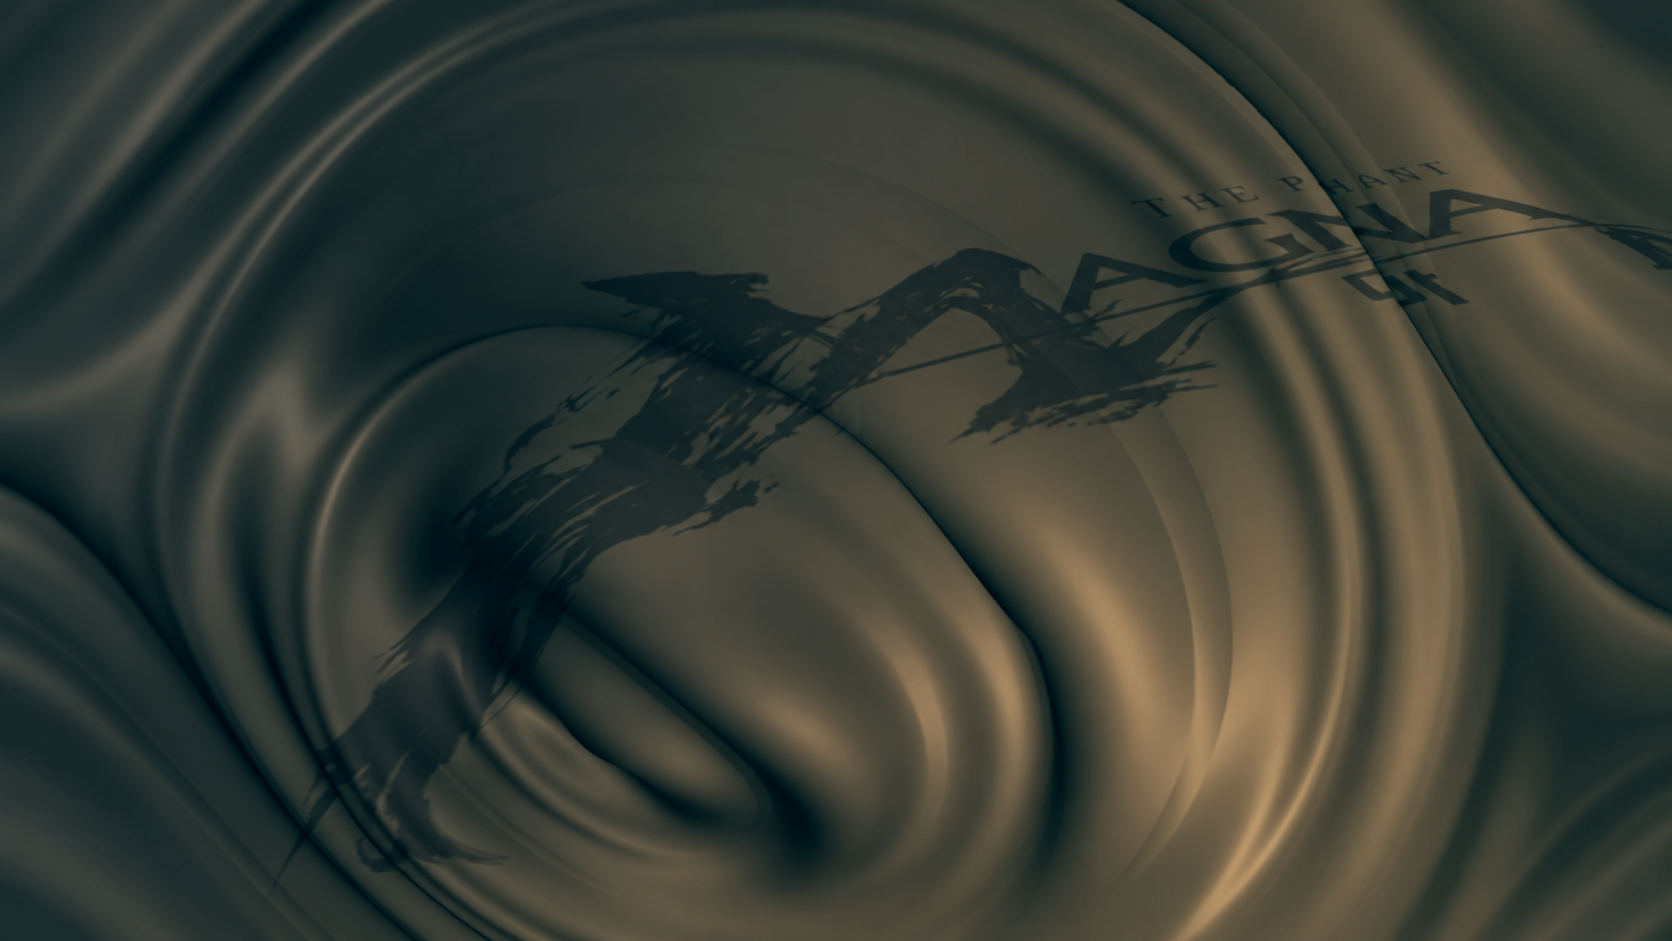
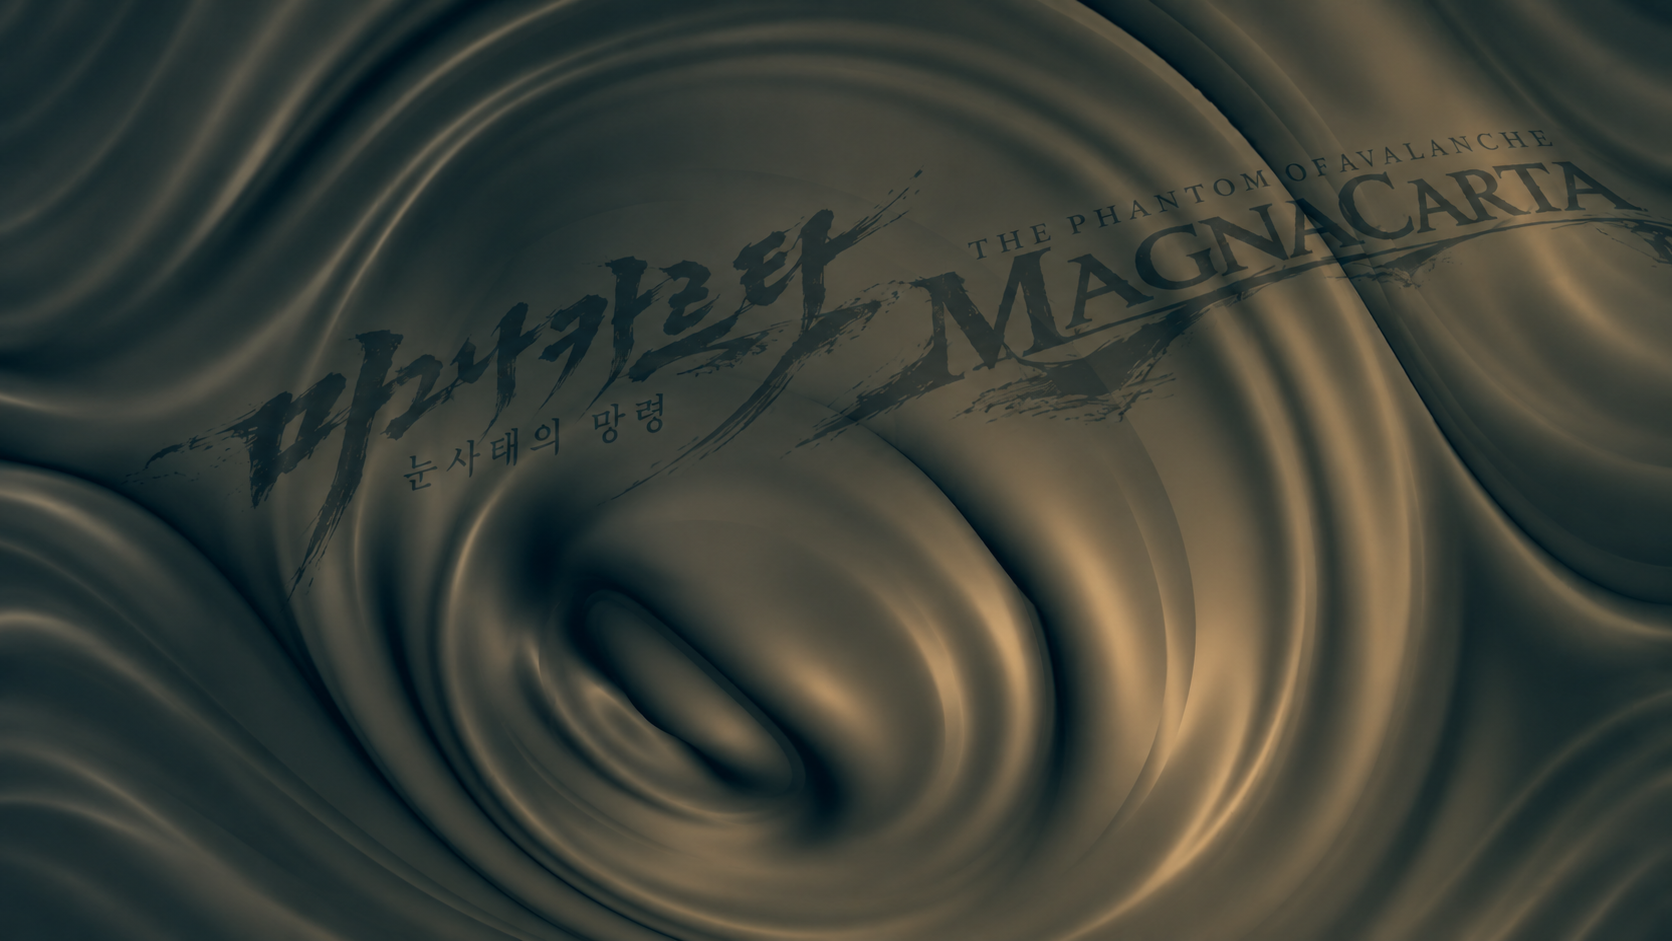
核对英韩名称并重绘替换4K标题背景

diff --git a/tools/refresh_title_background.py b/tools/refresh_title_background.py
@@ -1,0 +1,99 @@
+"""Replace only guarded title assets; preserve a hash-locked previous revision."""
+import argparse
+import ctypes
+import json
+from pathlib import Path
+import shutil
+import subprocess
+import uuid
+
+from build_title_background import sha
+import render_candidate
+
+TILES = {f'BGR/{i:04d}.BGR' for i in range(357,369)}
+EXTRAS = ['.advanced-runtime/title-background-4k.png'] + [
+    f'.advanced-runtime/title-preview-{w}x{h}.png'
+    for w,h in [(1920,1080),(1280,720),(640,480),(800,600)]]
+MANIFEST = '.advanced-runtime/title-background.json'
+RESTORE = r'''$ErrorActionPreference='Stop'
+$root=Split-Path -Parent (Split-Path -Parent $PSScriptRoot)
+function Hash($p){$h=[Security.Cryptography.SHA256]::Create();try{([BitConverter]::ToString($h.ComputeHash([IO.File]::ReadAllBytes($p)))).Replace('-','').ToLowerInvariant()}finally{$h.Dispose()}}
+if(Get-Process MagnaCarta -ErrorAction SilentlyContinue){throw 'Close game before background restore'}
+$m=Get-Content -LiteralPath (Join-Path $PSScriptRoot 'restore.json') -Raw | ConvertFrom-Json
+foreach($p in $m.PSObject.Properties){
+ if((Hash (Join-Path $root $p.Name)) -ne $p.Value.after){throw ('Modified file drift: '+$p.Name)}
+ if((Hash (Join-Path $PSScriptRoot ('files/'+$p.Name))) -ne $p.Value.before){throw ('Backup drift: '+$p.Name)}
+}
+foreach($p in $m.PSObject.Properties){Copy-Item -LiteralPath (Join-Path $PSScriptRoot ('files/'+$p.Name)) -Destination (Join-Path $root $p.Name) -Force}
+Write-Output 'TITLE_PREVIOUS_RESTORE PASS assets=exact previous_background=restored game_started=false'
+'''
+
+
+def _refresh(workspace, replacement):
+    old=json.loads((workspace/MANIFEST).read_text('utf-8-sig'))
+    new=json.loads((replacement/MANIFEST).read_text('utf-8-sig'))
+    if not old.get('active') or not new.get('active'):
+        raise ValueError('Active HD candidates required')
+    if set(old['tiles']) != TILES or set(new['tiles']) != TILES:
+        raise ValueError('Unexpected tile set')
+    for name in sorted(TILES):
+        if old['tiles'][name]['before'] != new['tiles'][name]['before']:
+            raise ValueError('Original version mismatch')
+        if sha(workspace/name) != old['tiles'][name]['after'] or sha(replacement/name) != new['tiles'][name]['after']:
+            raise ValueError('Title tile drift: '+name)
+    if sha(workspace/EXTRAS[0]) != old['master_sha256'] or sha(replacement/EXTRAS[0]) != new['master_sha256']:
+        raise ValueError('Master drift')
+    names=sorted(TILES)+EXTRAS+[MANIFEST]
+    rows={name:{'before':sha(workspace/name),'after':sha(replacement/name)} for name in names}
+    backup=workspace/'.advanced-runtime'/('previous-title-'+old['master_sha256'][:16]+'-'+uuid.uuid4().hex[:8])
+    backup.mkdir()
+    for name,row in rows.items():
+        dest=backup/'files'/name;dest.parent.mkdir(parents=True,exist_ok=True)
+        shutil.copyfile(workspace/name,dest)
+        if sha(dest)!=row['before']:raise ValueError('Backup mismatch')
+    (backup/'restore.json').write_text(json.dumps(rows,indent=2)+'\n',encoding='utf8')
+    (backup/'Restore.ps1').write_text(RESTORE,encoding='utf-8-sig')
+    tried=[]
+    try:
+        for name in names:
+            tried.append(name);shutil.copyfile(replacement/name,workspace/name)
+            if sha(workspace/name)!=rows[name]['after']:raise ValueError('Write mismatch')
+    except Exception:
+        for name in tried:shutil.copyfile(backup/'files'/name,workspace/name)
+        raise
+    cmd='@echo off\r\npowershell.exe -NoProfile -ExecutionPolicy Bypass -File "%~dp0.advanced-runtime\\'+backup.name+'\\Restore.ps1"\r\nif errorlevel 1 pause\r\n'
+    (workspace/'Restore-previous-background.cmd').write_bytes(cmd.encode('ascii'))
+    return backup
+
+
+def refresh(workspace,replacement):
+    workspace=render_candidate.plain_path(workspace);replacement=render_candidate.plain_path(replacement)
+    build=Path(__file__).resolve().parents[1]/'build'
+    if workspace==replacement or not workspace.is_relative_to(build) or not replacement.is_relative_to(build):
+        raise ValueError('Independent repository build candidates required')
+    # Same named mutex as StartAdvanced: no live candidate is replaced.
+    k=ctypes.WinDLL('kernel32',use_last_error=True)
+    k.CreateMutexW.argtypes=[ctypes.c_void_p,ctypes.c_bool,ctypes.c_wchar_p];k.CreateMutexW.restype=ctypes.c_void_p
+    k.WaitForSingleObject.argtypes=[ctypes.c_void_p,ctypes.c_uint]
+    k.ReleaseMutex.argtypes=k.CloseHandle.argtypes=[ctypes.c_void_p]
+    handle=k.CreateMutexW(None,False,'Local\\MagnaCartaAdvanced_'+render_candidate.graphics.sha(str(workspace).encode())[:24])
+    if not handle:raise OSError(ctypes.get_last_error())
+    owned=False
+    try:
+        owned=k.WaitForSingleObject(handle,0) in (0,128)
+        if not owned:raise ValueError('Candidate entry is active')
+        process=subprocess.run(['powershell.exe','-NoProfile','-Command','if(Get-Process MagnaCarta -ErrorAction SilentlyContinue){exit 1}'],capture_output=True)
+        if process.returncode:raise ValueError('Close game before title refresh')
+        return _refresh(workspace,replacement)
+    finally:
+        if owned:k.ReleaseMutex(handle)
+        k.CloseHandle(handle)
+
+
+if __name__=='__main__':
+    parser=argparse.ArgumentParser(description=__doc__)
+    parser.add_argument('--workspace',type=Path,required=True)
+    parser.add_argument('--replacement',type=Path,required=True)
+    args=parser.parse_args()
+    backup=refresh(args.workspace,args.replacement)
+    print('TITLE_BACKGROUND_REFRESH PASS tiles=12 previous_backup='+str(backup)+' game_started=false')

diff --git a/tests/test_title_background.py b/tests/test_title_background.py
@@ -2,12 +2,14 @@ from pathlib import Path
 import sys
 import unittest
 import tempfile
+import json
 
 from PIL import Image
 
 ROOT=Path(__file__).resolve().parents[1]
 sys.path.insert(0,str(ROOT/'tools'))
 import build_title_background as background
+import refresh_title_background as refresh
 from resource_image import ResourceImage, TGA_FOOTER, parse
 import struct
 
@@ -64,6 +66,47 @@ class TitleBackgroundTests(unittest.TestCase):
         self.assertIn('if(!hdBackground)',source)
         self.assertIn('position[0]+=',source)
         self.assertIn('size[0]=scale;size[1]=scale',source)
+
+
+class BackgroundRefreshTests(unittest.TestCase):
+    def pair(self,folder):
+        a=Path(folder)/'a';b=Path(folder)/'b'
+        for root,tag in [(a,'old'),(b,'new')]:
+            records={}
+            for name in sorted(refresh.TILES):
+                p=root/name;p.parent.mkdir(parents=True,exist_ok=True);p.write_bytes((tag+name).encode())
+                records[name]={'before':'original-version','after':background.sha(p)}
+            for name in refresh.EXTRAS:
+                p=root/name;p.parent.mkdir(parents=True,exist_ok=True);p.write_bytes((tag+name).encode())
+            (root/refresh.MANIFEST).write_text(json.dumps({'active':True,'tiles':records,'master_sha256':background.sha(root/refresh.EXTRAS[0])}),encoding='utf8')
+        return a,b
+
+    def test_refresh_backs_up_exact_previous_files(self):
+        with tempfile.TemporaryDirectory() as folder:
+            a,b=self.pair(folder)
+            names=sorted(refresh.TILES)+refresh.EXTRAS+[refresh.MANIFEST]
+            before={name:(a/name).read_bytes() for name in names}
+            backup=refresh._refresh(a,b)
+            for name in names:
+                self.assertEqual((a/name).read_bytes(),(b/name).read_bytes())
+                self.assertEqual((backup/'files'/name).read_bytes(),before[name])
+            self.assertTrue((a/'Restore-previous-background.cmd').is_file())
+
+    def test_drift_rejects_before_any_write(self):
+        with tempfile.TemporaryDirectory() as folder:
+            a,b=self.pair(folder);name=sorted(refresh.TILES)[0]
+            (a/name).write_bytes(b'owned drift')
+            with self.assertRaisesRegex(ValueError,'Title tile drift'):
+                refresh._refresh(a,b)
+            self.assertEqual((a/name).read_bytes(),b'owned drift')
+            self.assertFalse(list((a/'.advanced-runtime').glob('previous-title-*')))
+
+    def test_names_are_source_backed_and_exact(self):
+        plan=json.loads((ROOT/'locales/zh-CN/title-background-plan.json').read_text('utf8'))
+        names=plan['background_names']
+        self.assertEqual(names['english'],'MagnaCarta: The Phantom of Avalanche')
+        self.assertEqual(names['korean_art_lines'],['마그나카르타','눈사태의 망령'])
+        self.assertGreaterEqual(len(names['sources']),2)
 
 
 if __name__=='__main__':

diff --git a/docs/TITLE_BACKGROUND_4K.md b/docs/TITLE_BACKGROUND_4K.md
@@ -27,3 +27,13 @@ Verified（受控）：导出3840×2160、1920×1080、1280×720、640×480和80
 关闭游戏后Rollback-title.cmd恢复此独立候选12个原标题资源，关闭HD标志；原已验收目录和存档不动。完整资源摘要及同一回滚在另一副本上的结果见build/title-background4k-final/VERIFICATION.txt。
 
 离线准备时，Windows powershell.exe环境未加载Get-FileHash命令；入口已采用与既有StartAdvanced相同的.NET SHA256实现，而非依赖用户PowerShell模块自动加载。
+
+## 英韩装饰名称重绘与原入口替换
+
+检索交叉确认英文名称MagnaCarta: The Phantom of Avalanche（亦有Magna Carta分写）、韩文名称마그나카르타 ~눈사태의 망령~。资料：[英文条目](https://en.wikipedia.org/wiki/Magna_Carta%3A_The_Phantom_of_Avalanche)、[韩文GameMeca报道](https://www.gamemeca.com/view.php?gid=119517)、[概念设定集书目](https://www.aladin.co.kr/shop/wproduct.aspx?itemid=316586073)。本对象是2001年PC作品，不与后续진홍의 성흔或Tears of Blood混用。
+
+新绘背景将原画笔触理解为韩文书写，将斜排英文理解为名称装饰，而非随机墨迹。暗色衬线MAGNACARTA、THE PHANTOM OF AVALANCHE与韩文마그나카르타、눈사태의 망령按检索拼写绘制，保留深青/灰橄榄旋涡布纹和低对比装饰；前景透明中文标题与按钮、native缩放/裁切代码不改。字形经过图像目视复核，不将书法字形识别宣称为自动OCR证明。生成源仍由离线构建器重采样为3840×2160母图。
+
+`tools/refresh_title_background.py --workspace build/title-background4k-game --replacement build/title-names4k-game`验证旧/新12项资源、原资源来源一致、母图SHA和启动互斥锁后，仅更新标题资源及预览。上一版HD背景和清单逐项SHA备份；写入失败恢复已尝试文件。原已验收advanced-display-game以及商业引擎/字体/按钮/存档不改。
+
+同一title-background4k-game入口继续使用本次替换版。Restore-previous-background.cmd恢复上一张HD背景；Rollback-title.cmd则恢复最初标题背景。独立副本的上一版恢复结果与基准/修改/恢复源码测试见build/title-names4k-evidence/VERIFICATION.txt。背景PNG预览不代替商业游戏实际验收。
